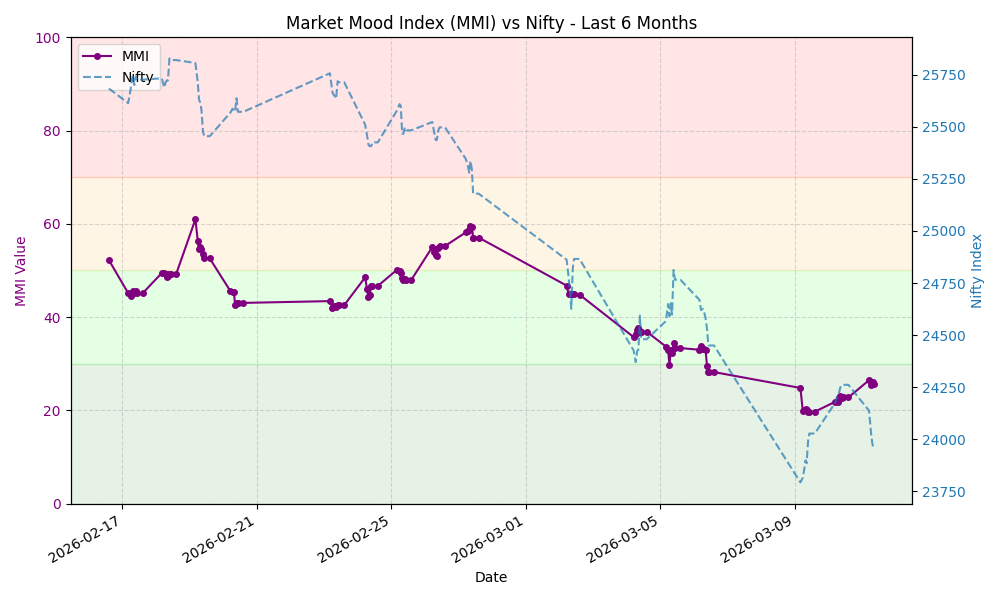
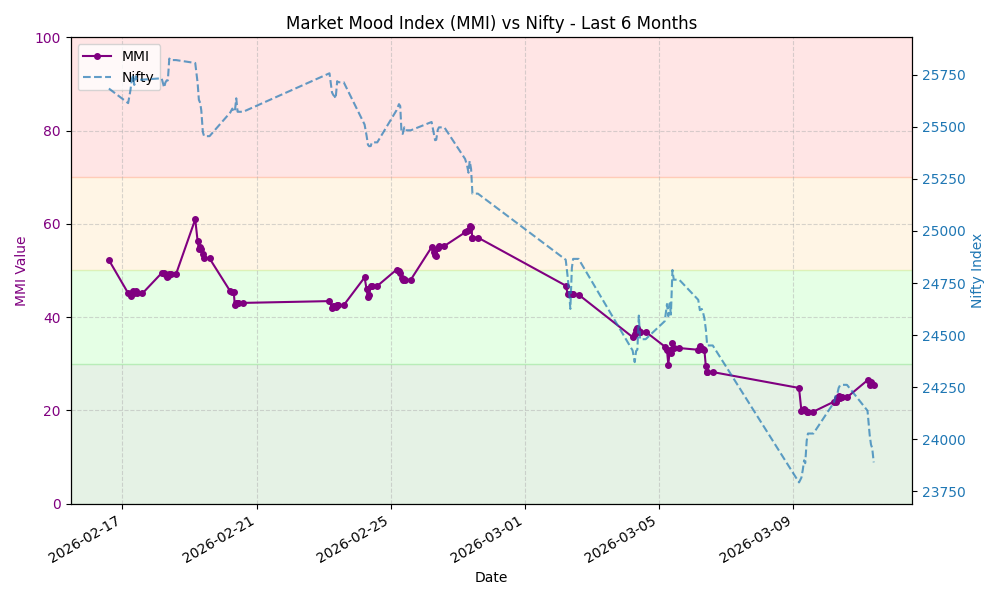
Update MMI data and chart

diff --git a/README.md b/README.md
@@ -7,8 +7,8 @@ This repository automatically fetches the MMI value, stores the history, and gen
 
 ## Latest MMI Value
 
-**25.57** - **Extreme Fear**
-<small>Last Updated: 2026-03-11 08:24 UTC</small>
+**25.53** - **Extreme Fear**
+<small>Last Updated: 2026-03-11 09:30 UTC</small>
 
 ## MMI Trend (Last 30 Days)
 
